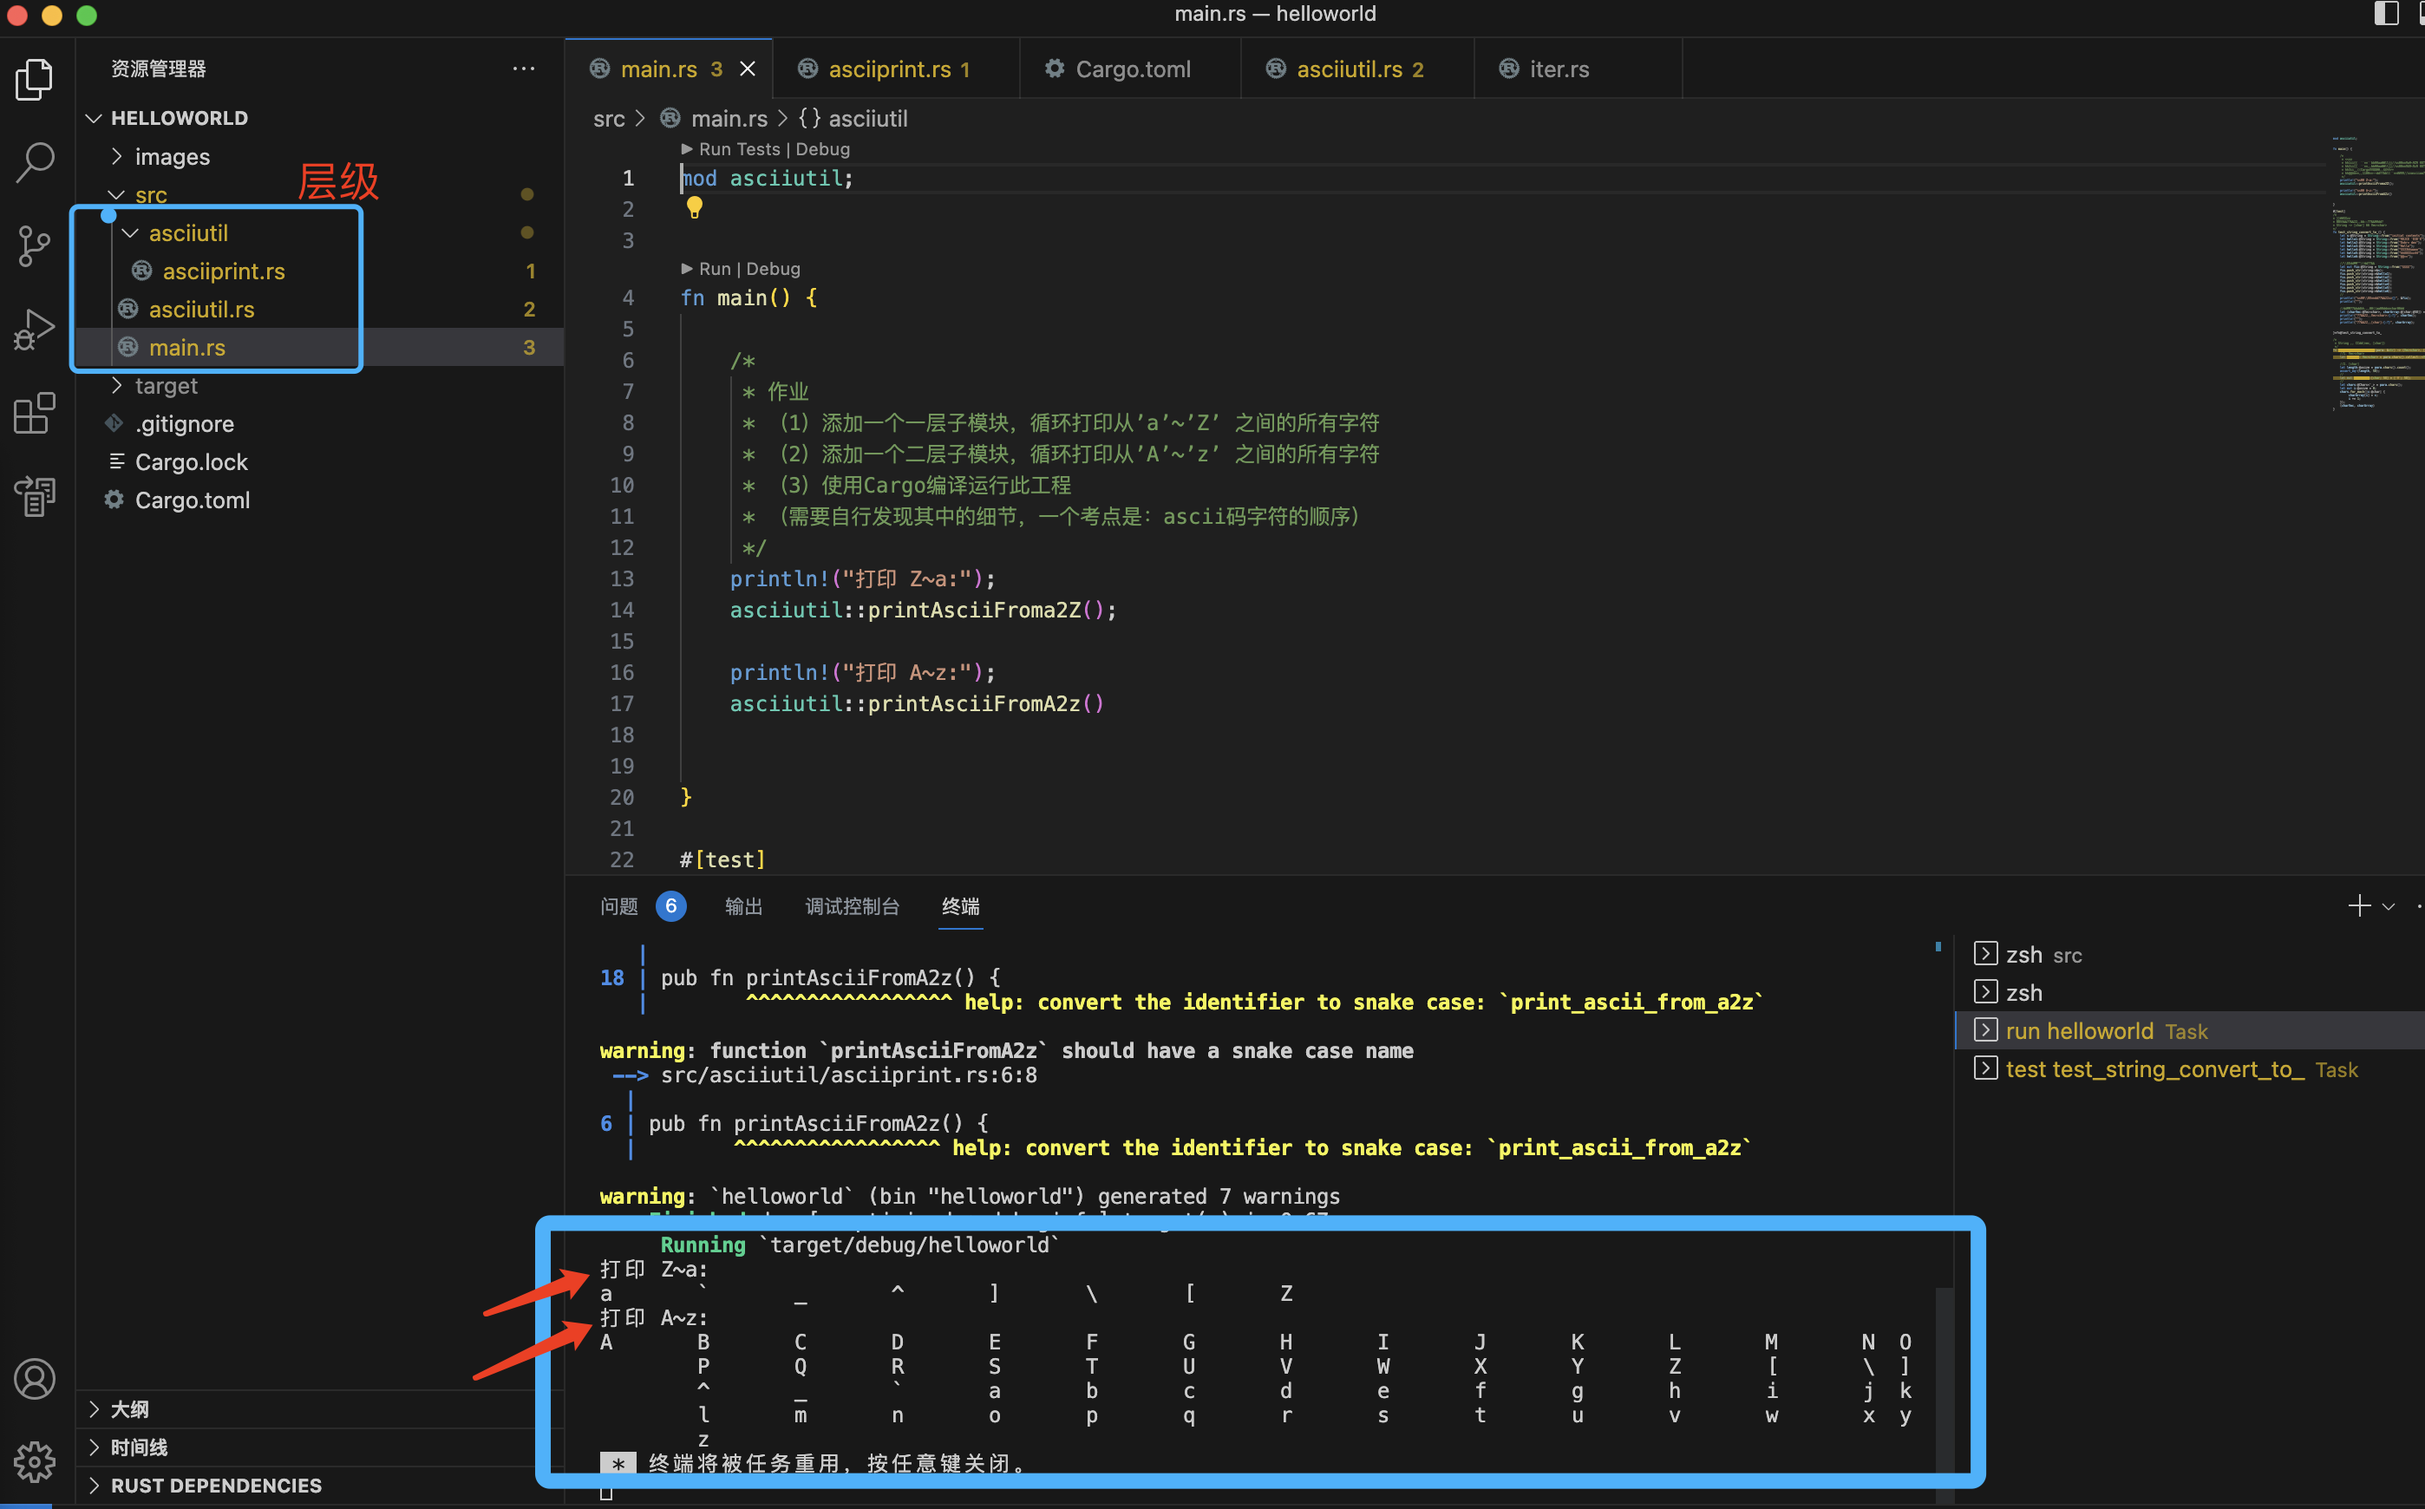
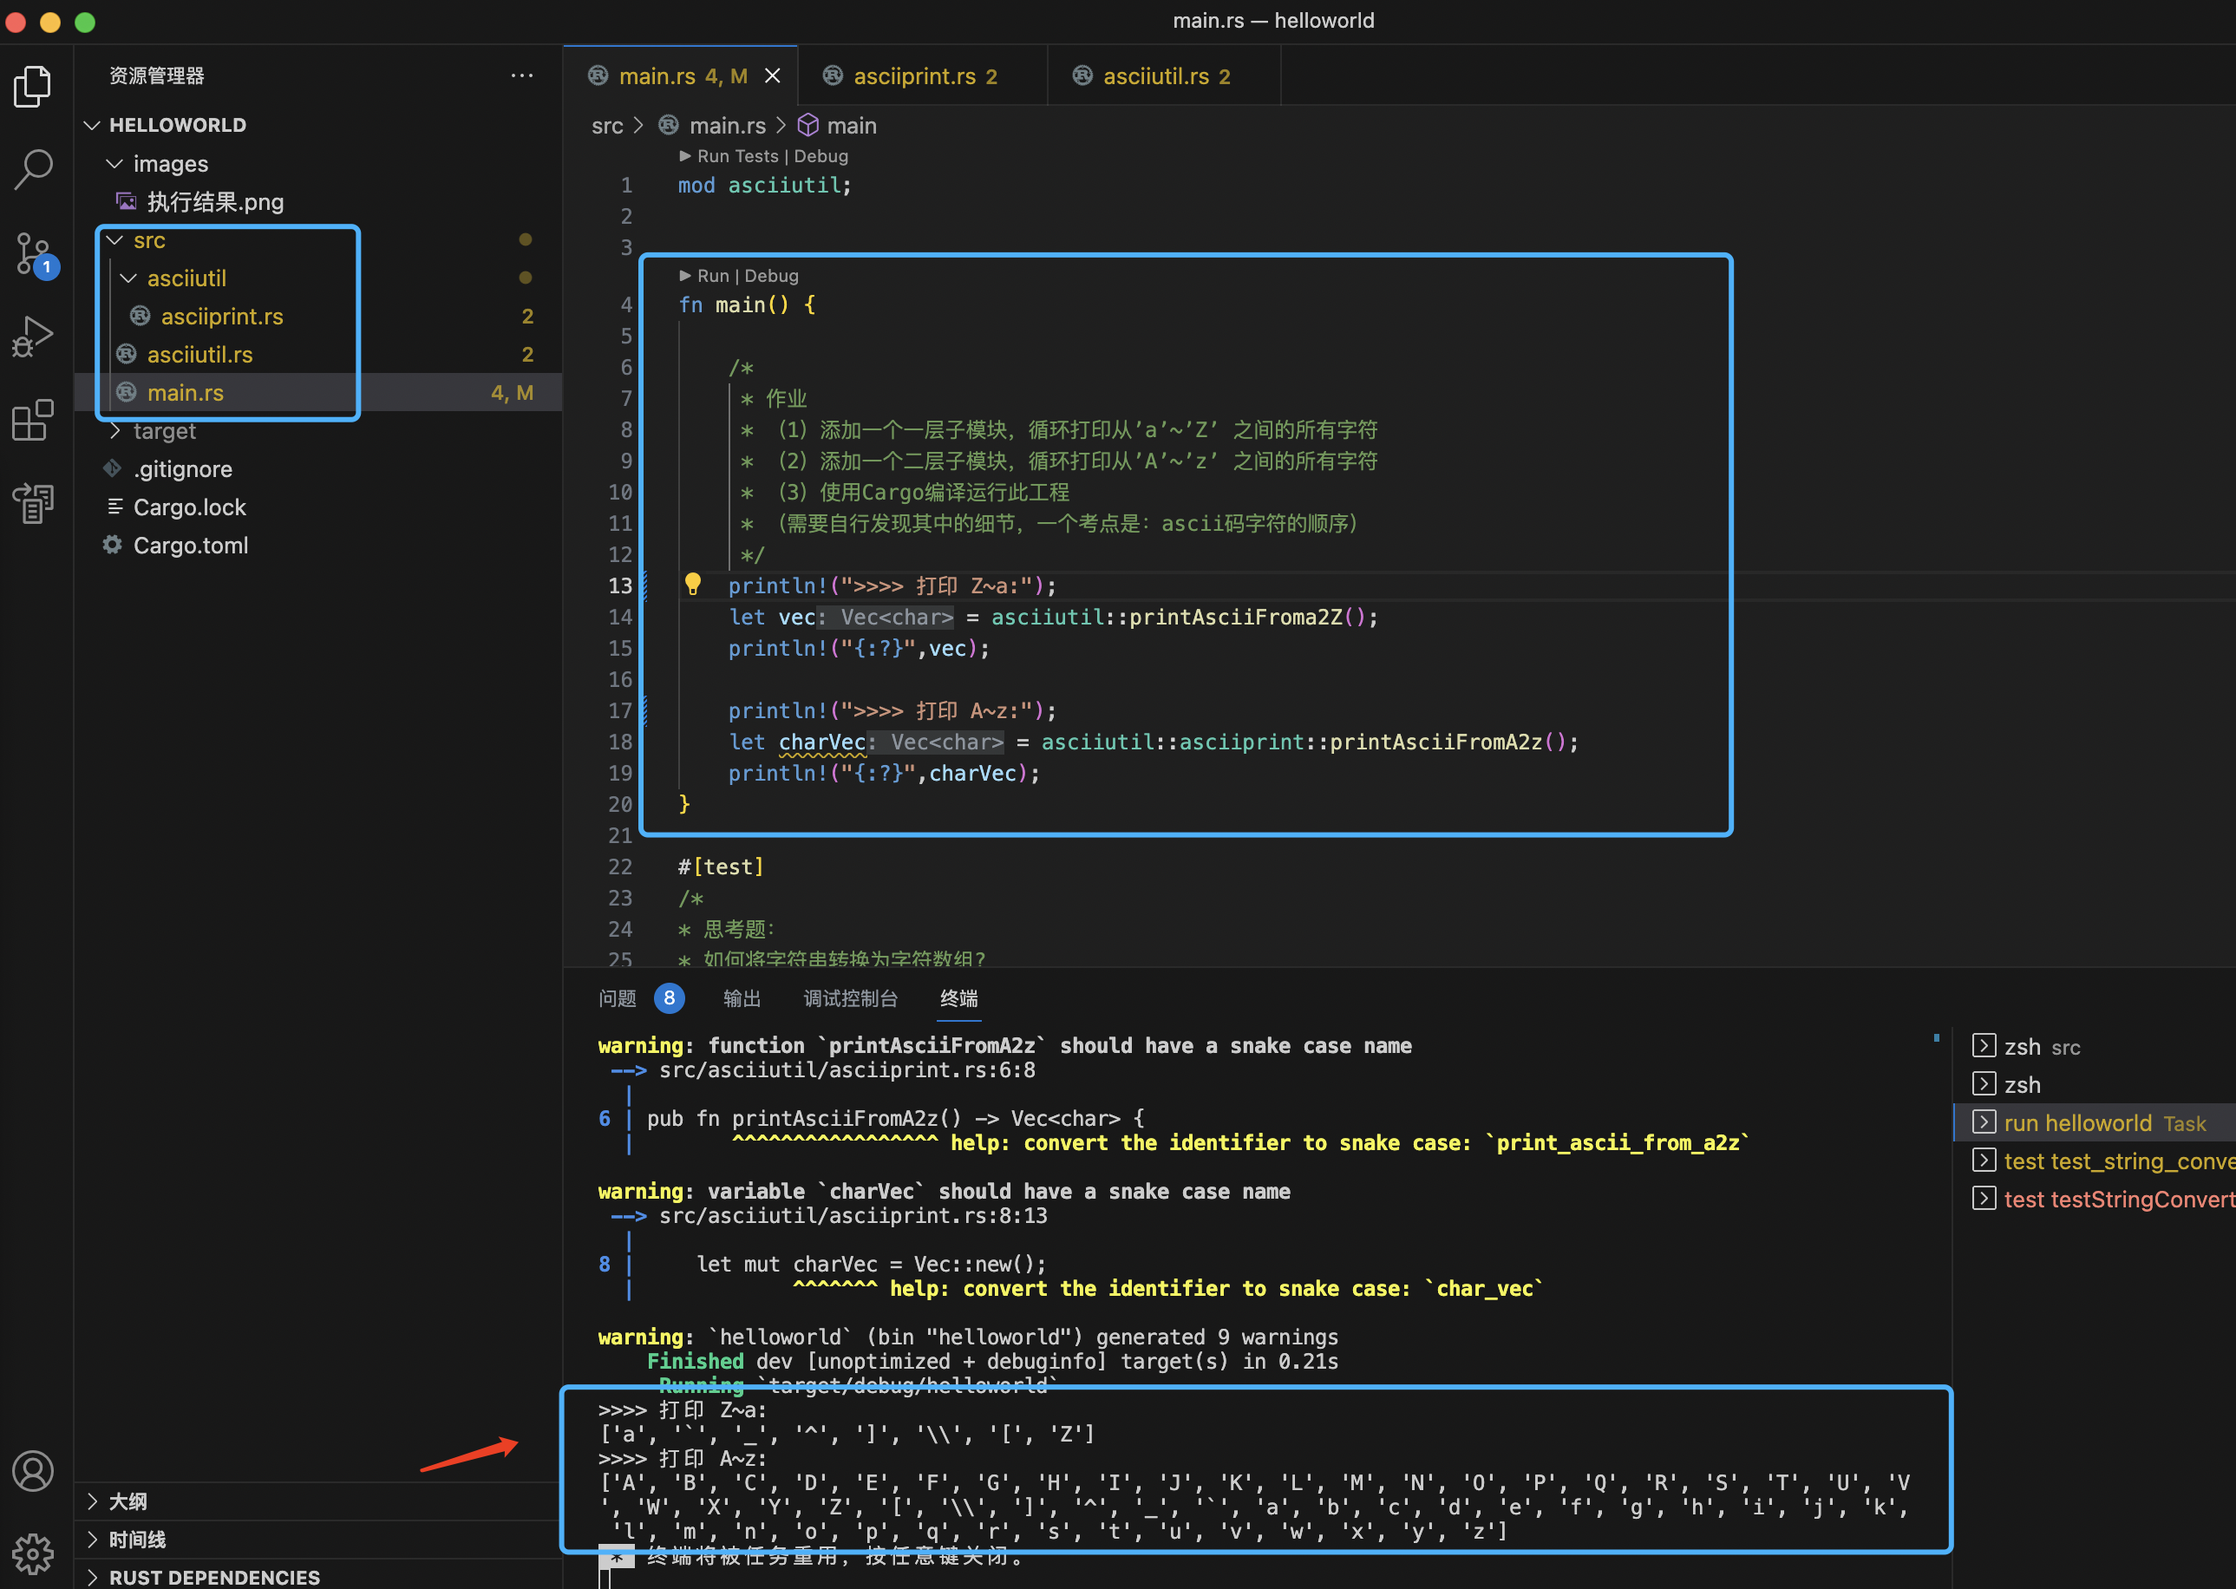
666
666

diff --git a/src/main.rs b/src/main.rs
@@ -10,11 +10,11 @@ fn main() {
      * （3）使用Cargo编译运行此工程
      * （需要自行发现其中的细节，一个考点是：ascii码字符的顺序）
      */
-    println!("打印 Z~a:");
+    println!(">>>> 打印 Z~a:");
     let vec = asciiutil::printAsciiFroma2Z();
     println!("{:?}",vec);
     
-    println!("打印 A~z:");
+    println!(">>>> 打印 A~z:");
     let charVec = asciiutil::asciiprint::printAsciiFromA2z();
     println!("{:?}",charVec);
 }
